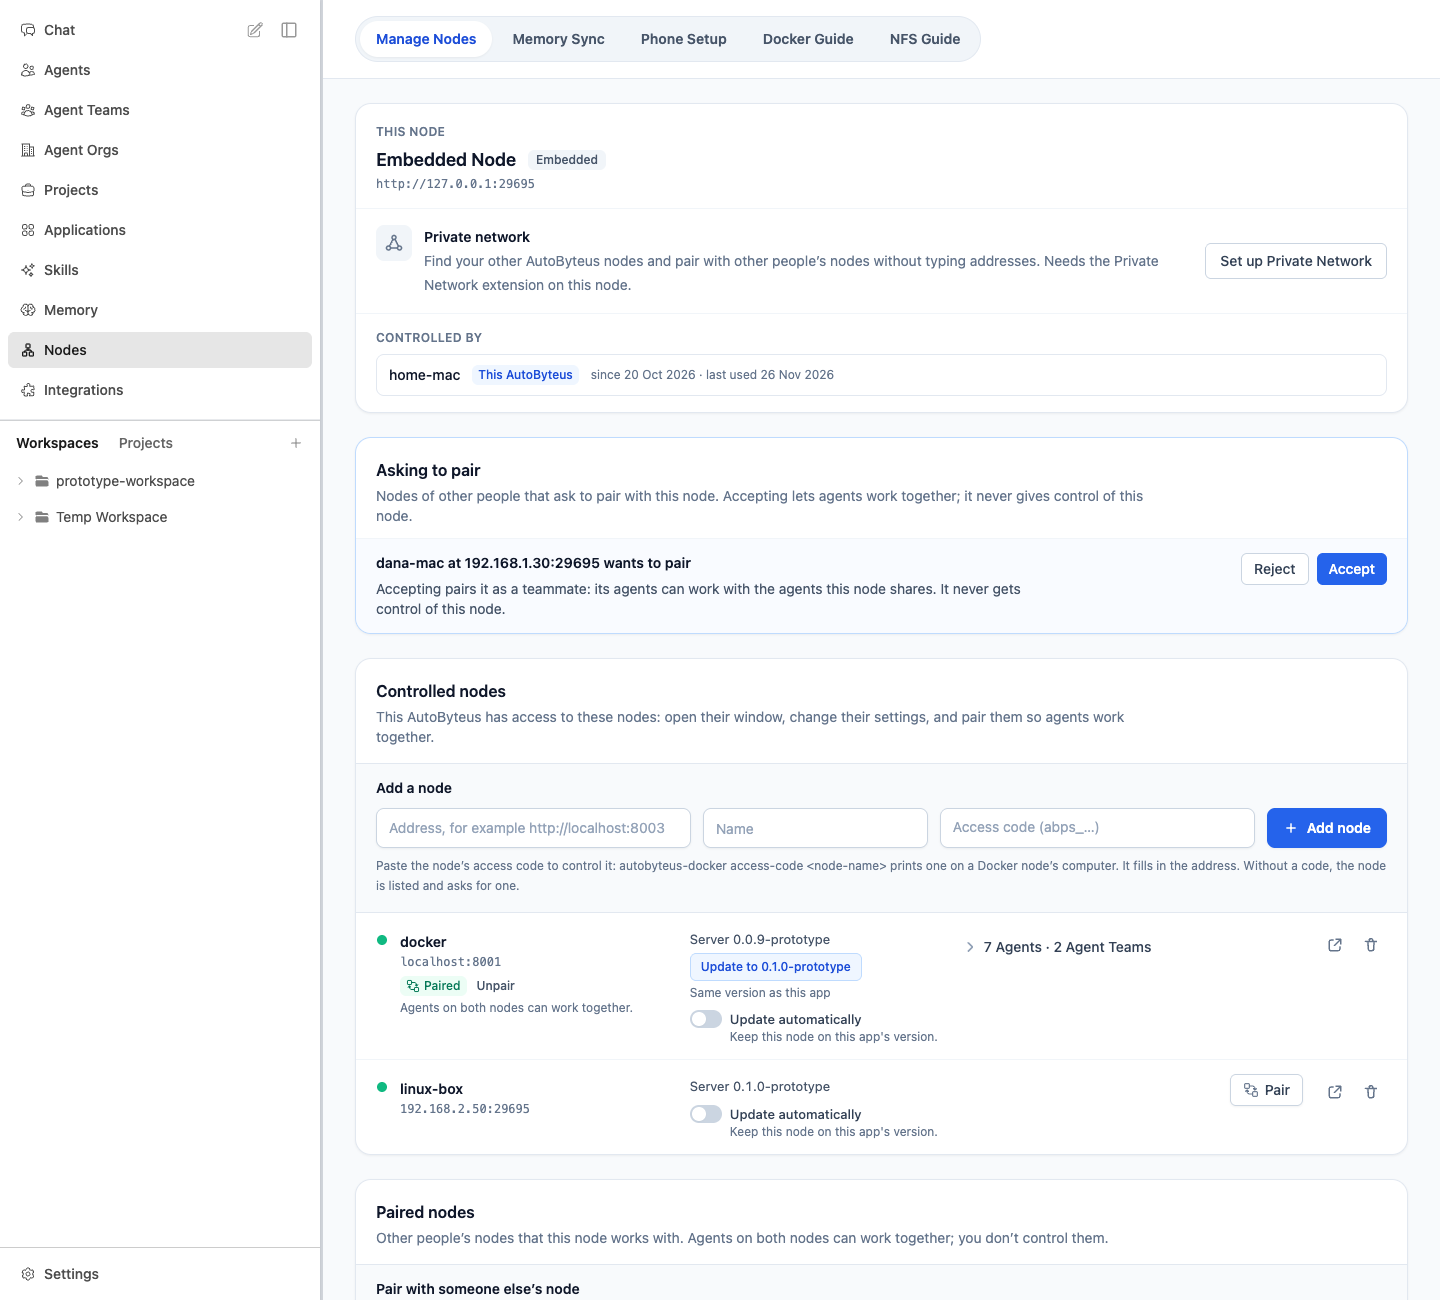
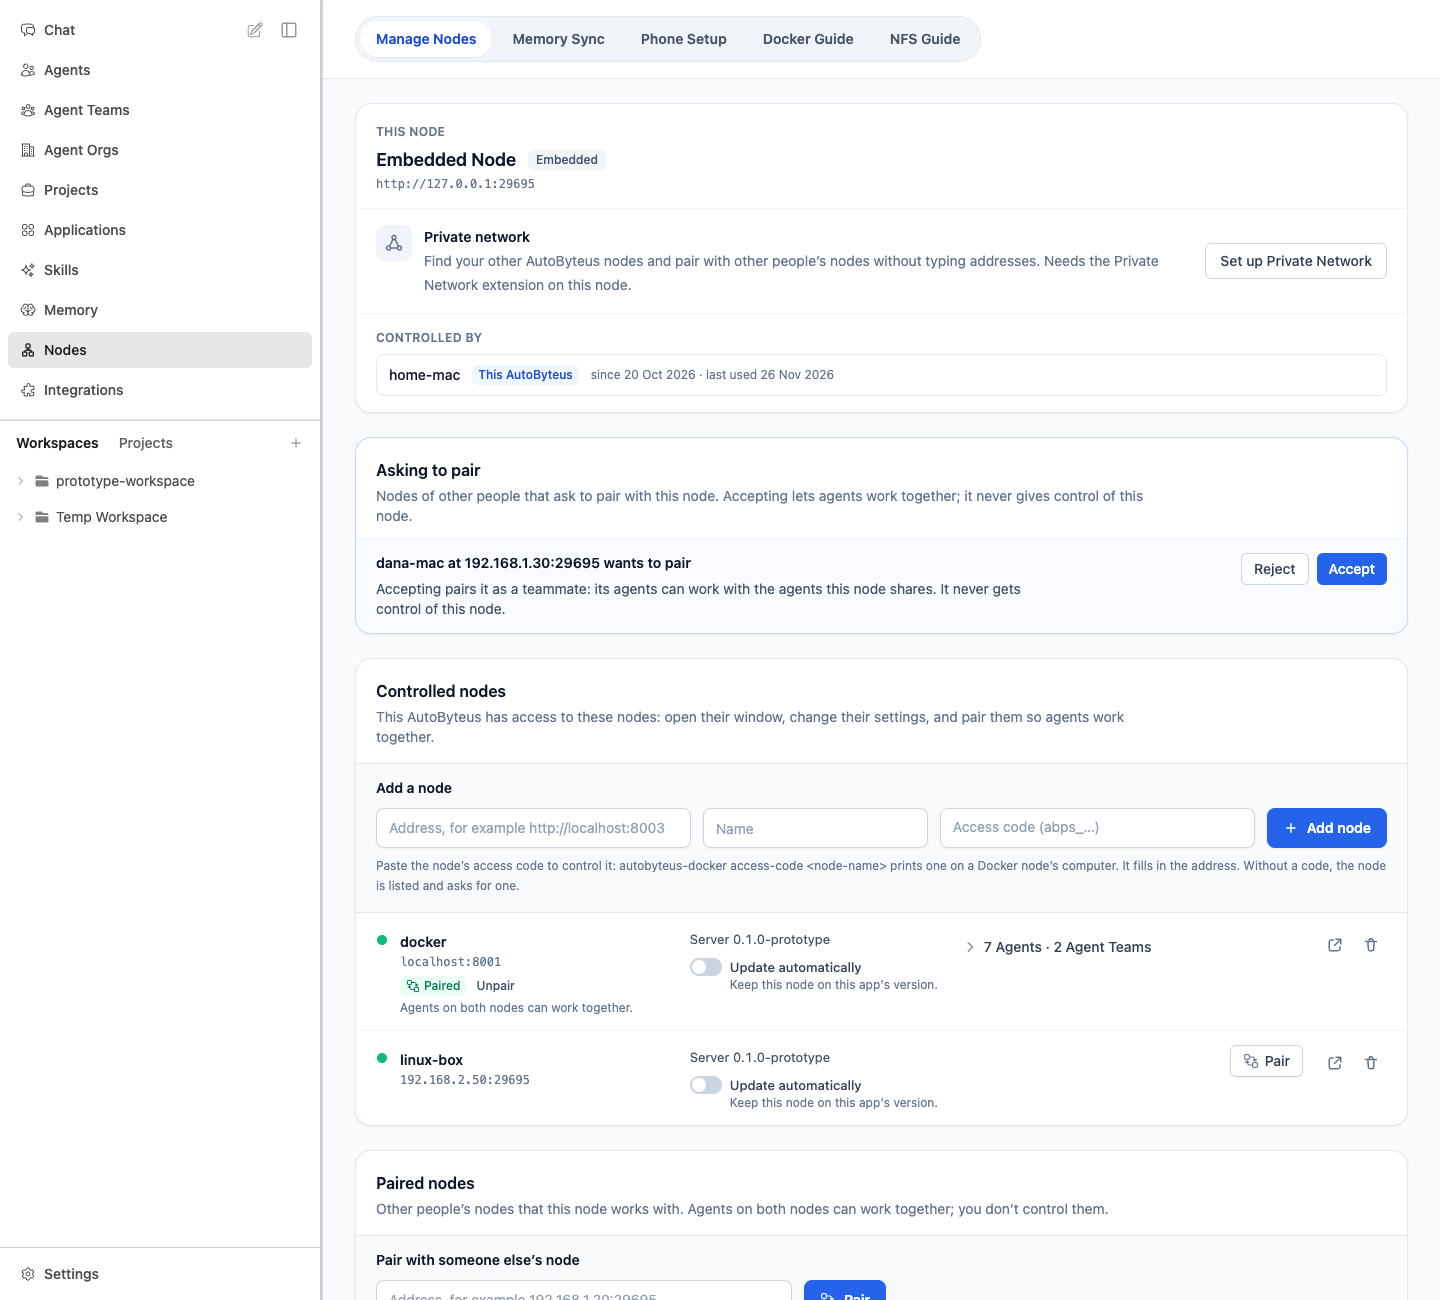
design(private-network-661): capture check fixes - consistent docker example, no trash on an old teammate pairing, retaken captures
DC-102.

diff --git a/stores/privateNetworkStore.ts b/stores/privateNetworkStore.ts
@@ -1,7 +1,7 @@
 import { defineStore } from 'pinia'
 import { computed, ref } from 'vue'
 import { useNodeListStore } from '~/stores/nodeListStore'
-import { NODE_IDS } from '~/prototype/nodes/network-world.mjs'
+import { APP_VERSION, NODE_IDS } from '~/prototype/nodes/network-world.mjs'
 
 /**
  * extensions-ui-516 / private-network-661 (design only): the simulated private network and pairing (autobyteus-661, Stage 2,
@@ -18,7 +18,7 @@ import { NODE_IDS } from '~/prototype/nodes/network-world.mjs'
  *   `network_not_joined` (installed and on, not signed in yet). Without a `network_*` value Private Network is not installed.
  * Starting state of pairing: `localStorage['autobyteus.prototype.pairing']` =
  *   `after_update` (D-3: the three pairings made before the update show "Pair again": docker runs an older AutoByteus,
- *   linux-box is controlled, bob-laptop is someone else's) · `address_request` (a node asks to pair by its plain address).
+ *   linux-box is controlled, bob-laptop is someone else's; an old pairing stays until it is paired again) · `address_request` (a node asks to pair by its plain address).
  * Pair by address, scripted by the address typed: 192.168.1.30 accepts (dana-mac), 192.168.1.40 declines, 192.168.1.50 runs an
  *   does not accept the request (as an older AutoByteus would); any other address has no AutoByteus node.
  */
@@ -143,6 +143,12 @@ export const usePrivateNetworkStore = defineStore('privateNetwork', () => {
   let approvalStarted = false
   let backOnlineStarted = false
 
+  // Under the node-key model a paired node runs this version: outside `after_update`, the paired docker node is current
+  // (an older node cannot hold a node-key pairing; it shows Pair again with the update note, below).
+  if (pairingState() !== 'after_update') {
+    const w = world()
+    if (w && w.nodes[NODE_IDS.D1]) w.nodes[NODE_IDS.D1].server = { version: APP_VERSION, relation: 'same', mode: 'available' }
+  }
   // D-3: the pairings made before the update stay listed, unpaired (no secret), until paired again.
   if (pairingState() === 'after_update') {
     const w = world()
@@ -330,13 +336,6 @@ export const usePrivateNetworkStore = defineStore('privateNetwork', () => {
     await flash(nodeId)
   }
   function cancelPairAgain(nodeId: string): void { const entry = legacyOf(nodeId); if (entry) entry.phase = 'idle' }
-  /** Someone else's node paired before the update that you no longer want: its old record leaves this list. */
-  async function forgetLegacy(nodeId: string): Promise<void> {
-    world()?.removePrivatePeer(nodeId)
-    legacy.value = legacy.value.filter((l) => l.nodeId !== nodeId)
-    await useNodeListStore().open()
-  }
-
   // ---- Pair by address with someone else's node (D-5, REQ-008): Pair → its owner Accepts / Rejects; Cancel
   const ADDRESS_NODES: Record<string, { nodeId: string; name: string; answer: 'accept' | 'decline' | 'refused' }> = {
     '192.168.1.30': { nodeId: nodeIdOf('d4n4M4cAddr'), name: 'dana-mac', answer: 'accept' },
@@ -385,6 +384,6 @@ export const usePrivateNetworkStore = defineStore('privateNetwork', () => {
     thisMachine, ownerAccount, accountLabel, machineOf, peerMark, ownOnNetwork, legacyOf, networkLabel, status, addressFormOf,
     reset, touch, signIn, cancelSignIn, joinWithKey, leave,
     setDiscoverable, dismissDiscoveryOffer, pair, connect, cancelConnect, allow, reject, unpair,
-    pairAgain, cancelPairAgain, forgetLegacy, pairByAddress, cancelOutgoing,
+    pairAgain, cancelPairAgain, pairByAddress, cancelOutgoing,
   }
 })

diff --git a/components/settings/nodes/NodeRow.vue b/components/settings/nodes/NodeRow.vue
@@ -117,13 +117,13 @@
         </button>
         <span v-else-if="store.hasOpen" class="inline-block h-8 w-8" aria-hidden="true" />
         <button
-          v-if="!row.isEmbedded && privateMark?.role !== 'teammate'"
+          v-if="!row.isEmbedded && !teammate"
           type="button"
           class="inline-flex h-8 w-8 items-center justify-center rounded-md text-slate-500 transition-colors hover:bg-red-50 hover:text-red-700 focus-visible:outline-none focus-visible:ring-2 focus-visible:ring-red-500"
-          :title="legacy?.role === 'teammate' ? t('nodes.pairAgain.forget', { name: row.name }) : t(k('row.removeNode'), { name: row.name })"
-          :aria-label="legacy?.role === 'teammate' ? t('nodes.pairAgain.forget', { name: row.name }) : t(k('row.removeNode'), { name: row.name })"
+          :title="t(k('row.removeNode'), { name: row.name })"
+          :aria-label="t(k('row.removeNode'), { name: row.name })"
           :data-testid="`node-remove-${row.key}`"
-          @click="legacy?.role === 'teammate' ? privateNetwork.forgetLegacy(row.nodeId!) : dialog.request('remove', row.key)"
+          @click="dialog.request('remove', row.key)"
         >
           <svg class="h-[18px] w-[18px]" viewBox="0 0 20 20" fill="none" stroke="currentColor" stroke-width="1.7" aria-hidden="true"><path d="M4 6h12M8 6V4.5A1.5 1.5 0 0 1 9.5 3h1A1.5 1.5 0 0 1 12 4.5V6m1.5 0-.6 9a1.5 1.5 0 0 1-1.5 1.4H8.6A1.5 1.5 0 0 1 7.1 15L6.5 6" stroke-linecap="round" stroke-linejoin="round" /></svg>
         </button>

diff --git a/localization/messages/zh-CN/extensionsDesign.ts b/localization/messages/zh-CN/extensionsDesign.ts
@@ -211,7 +211,6 @@ const extensionsDesignMessages: TranslationCatalog = {
   'nodes.pairAgain.label': '与 {{name}} 重新配对',
   'nodes.pairAgain.waiting': '正在等待其所有者接受',
   'nodes.pairAgain.older': '{{name}} 运行的是较旧版本的 AutoByteus。请先更新它，再重新配对。',
-  'nodes.pairAgain.forget': '从此列表中移除 {{name}}',
   'nodes.pairByAddress.title': '与别人的节点配对',
   'nodes.pairByAddress.label': '要配对的节点地址',
   'nodes.pairByAddress.placeholder': '地址，例如 192.168.1.20:29695',

diff --git a/localization/messages/en/extensionsDesign.ts b/localization/messages/en/extensionsDesign.ts
@@ -211,7 +211,6 @@ const extensionsDesignMessages: TranslationCatalog = {
   'nodes.pairAgain.label': 'Pair again with {{name}}',
   'nodes.pairAgain.waiting': 'Waiting for its owner to accept',
   'nodes.pairAgain.older': '{{name}} runs an older AutoByteus. Update it, then pair again.',
-  'nodes.pairAgain.forget': 'Remove {{name}} from this list',
   'nodes.pairByAddress.title': 'Pair with someone else’s node',
   'nodes.pairByAddress.label': 'Address of the node to pair with',
   'nodes.pairByAddress.placeholder': 'Address, for example 192.168.1.20:29695',

diff --git a/tickets/in-progress/private-network-661/design-change-log.md b/tickets/in-progress/private-network-661/design-change-log.md
@@ -7,7 +7,7 @@ DC IDs continue extensions-ui-516's (DC-001…DC-090) so every change to the Pri
 | DC-091 | Removal | The Private Network page offers Tailscale only: no network choice (Headscale, Host a private network), no "Your own VPN" section, no Invite someone. Join reads "Join your private network" with Sign in with Tailscale and "Use an auth key instead". The card description names only Tailscale and says "Needs no administrator password" (was "approval", which collided with Tailscale's device approval). This node's "own VPN" mode is gone. | D-1, REQ-001, REQ-002; non-goals |
 | DC-092 | Changed | Tailscale's conditions are separate states, each an amber notice on the page and the card's status line: Waiting for approval (kept); **Your Tailscale sign-in expired** (key expiry, Sign in again); **Signed out of Tailscale** (signed out or removed in the admin console, Sign in again); **Tailscale can't be reached** (trying again by itself, no button). Signed out and expired hide My machines (this machine is not on the network). Manage Nodes → This node shows the same line with Open Private Network. | REQ-015 |
 | DC-093 | Addition | Access rules: "Your tailnet's access rules block AutoByteus." notice naming the machines, "Blocked by access rules" (amber) in My machines' State column; the card stays On with the status line saying it. | REQ-017 |
-| DC-094 | Addition | Pair again: every pairing made before the update keeps its row (Controlled nodes or Paired nodes) with an amber "Paired before the update" mark and **Pair again** in the Pair column. Controlled node: one click → Pairing… → Paired. Someone else's node: Pair again → "Waiting for its owner to accept" + Cancel → Paired (Teammate · peer only). A controlled node on an older AutoByteus: Pair again disabled, "{name} runs an older AutoByteus. Update it, then pair again." next to its existing Update button. An old record of someone else's node can be removed with the trash icon ("Remove {name} from this list"). | D-3, REQ-012, UC-010, AC-011 |
+| DC-094 | Addition | Pair again: every pairing made before the update keeps its row (Controlled nodes or Paired nodes) with an amber "Paired before the update" mark and **Pair again** in the Pair column. Controlled node: one click → Pairing… → Paired. Someone else's node: Pair again → "Waiting for its owner to accept" + Cancel → Paired (Teammate · peer only). A controlled node on an older AutoByteus: Pair again disabled, "{name} runs an older AutoByteus. Update it, then pair again." next to its existing Update button. | D-3, REQ-012, UC-010, AC-011 |
 | DC-095 | Addition | Pair by address: a "Pair with someone else's node" band at the top of Paired nodes (Address, Pair; hint "Its owner accepts on that node. Pairing never gives control of either node."). The asking node shows a row with the address: "Waiting for its owner to accept" + Cancel → Paired; or "Its owner declined." + Pair again + remove. Errors: format, this node, a controlled node ("pair it with Pair on its row"), already paired, no AutoByteus node answers, an older AutoByteus. Paired nodes' empty text shortened to "No paired nodes of other people yet." | D-5, REQ-008, UC-006, AC-007 |
 | DC-096 | Changed | Asking to pair shows requests that arrive by address even without the private network: "{name} at {address} wants to pair" with Accept / Reject; no account line. A node paired by address shows "Teammate · peer only" and no "Private network" tag; its Unpair text: "…to work together again, one of you pairs by address again." | D-5, REQ-008 |
 | DC-097 | Addition | Add a node: a pasted access code whose address is on the private network (100.64.0.0/10, fd7a:115c:a1e0::/48) while this computer's node is not on it shows an amber notice "This access code is for a node on your private network ({address}). This computer's node must join your private network first." with Set up / Open Private Network; Add node is disabled. | REQ-010, G1 |
@@ -15,3 +15,4 @@ DC IDs continue extensions-ui-516's (DC-001…DC-090) so every change to the Pri
 | DC-099 | Changed | Leave this private network: "{machine} signs out of your tailnet. Its pairings over the private network stop working. After it joins again, pair those nodes again." (a rejoined machine has a new machine ID, pairing-contract §1, §5); while signed out, expired or unreachable: "It stays listed in your Tailscale admin console until you remove it there." | pairing-contract §1, §5 |
 | DC-100 | Changed | The join-first notice (DC-097) applies wherever an access code is pasted: Add a node (a box under the form), a Needs connecting row and Found → Control (one inline line with the link, inside the row's existing amber notice; Connect / Add disabled). | Solution Designer, F-3 → REQ-010 |
 | DC-101 | Changed | Pair by address: no "older AutoByteus" error (DESIGN.md rule 9: no version checks on someone else's node). A node that does not accept the request: "{address} did not accept the pair request. Check that it runs the latest AutoByteus." beside "No AutoByteus node answers at …". The version note stays only on a controlled node's row (DC-094), which knows the version through the node-update connection. | Solution Designer, F-4 |
+| DC-102 | Changed | Consistency with the node-key model (Solution Designer's capture check): a paired node runs this version, so the paired docker example is current (0.1.0) outside the after-update state; after the update it is older, with Update offered and Pair again disabled. A teammate's node paired before the update has no trash icon: its old pairing stays with Pair again until it is paired again (Remove means giving up control, which this app never had). Expired / signed-out captures retaken with My machines hidden (DC-092); Found → Control example uses raspberrypi's own code. | Solution Designer, round 1 check |

diff --git a/tickets/in-progress/private-network-661/review-round-1.md b/tickets/in-progress/private-network-661/review-round-1.md
@@ -39,3 +39,10 @@ Real Tailscale sign-in, approval and expiry texts, shared machines' account, acc
 - F-3 carried into REQ-010: join-first notice in Add a node, Needs connecting, Found → Control. Applied as DC-100 (R1-18, R1-23, R1-24).
 - F-4: version note only on a controlled row; pair by address uses one plain "did not accept" text. Applied as DC-101 (R1-14).
 - "…when they accept": fine.
+
+## Solution Designer's capture check (2026-11-26)
+
+1. R1-03 / R1-04 were taken before My machines was hidden; retaken (the list is hidden in both).
+2. docker example made consistent (DC-102): current and Paired outside `after_update` (R1-15, R1-18); older with Update and Pair again disabled after the update (R1-08). The "Same version as this app" line beside "Update to 0.1.0-prototype" is today's product hint for the Update button (the update brings the node to this app's version, autobyteus-356, unchanged); it is not a statement about the node's current version.
+3. R1-24 retaken with raspberrypi's own code (100.88.60.60): only the join-first line shows.
+4. The trash on bob-laptop's old pairing is dropped (DC-102); the row keeps Pair again only.

diff --git a/tickets/in-progress/private-network-661/product-ticket.md b/tickets/in-progress/private-network-661/product-ticket.md
@@ -40,6 +40,7 @@ Invented by hand for this ticket: accounts (`alex@example.com`, `bob@example.com
 - 2026-11-26 opened; worktree from `origin/personal@825434bc`; baseline check (above): no refresh needed.
 - 2026-11-26 round 1 built and clicked through (desktop 1440, phone 390, en and zh-CN): DC-091…DC-099 (`design-change-log.md`); review notes `review-round-1.md`; interim captures `review-captures/round-1/` (not normative). Sent to the Solution Designer for its workflow check and the founder's review; `Awaiting User Review`.
 - 2026-11-26 Solution Designer's workflow check: answers fit; F-1, F-2 confirmed; F-3, F-4 applied (DC-100, DC-101). Round 1 is with the founder (via the Solution Designer); `Awaiting User Review`.
+- 2026-11-26 Solution Designer's capture check: four fixes applied (DC-102; captures R1-03, R1-04, R1-08…R1-10, R1-15, R1-18…R1-20, R1-22, R1-24 retaken); sent back for its re-check.
 
 ## Final Package
 
